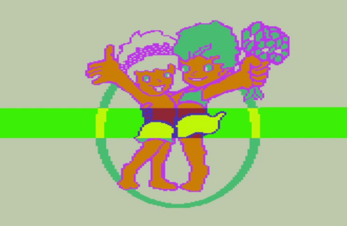
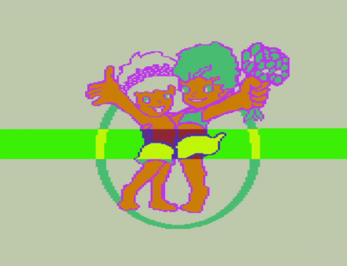
Added background image for the gallery

Changed region(s): [[0.0, 0.0929, 1.0, 0.9292]]

diff --git a/index.html b/index.html
@@ -174,7 +174,7 @@
             width: 100%;
             height: 120px;
             object-fit: contain;
-            background: #111;
+            background: #111 url('images/background.png') center/cover no-repeat;
             border-bottom: 1px solid #333;
         }
 